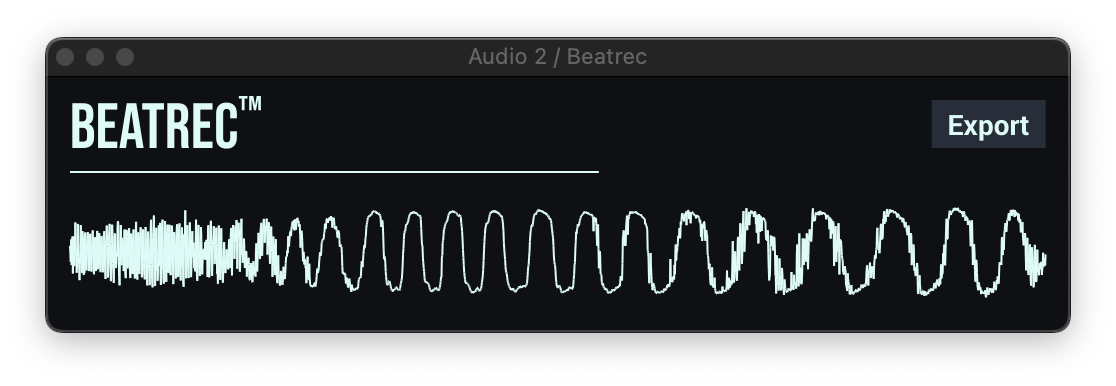
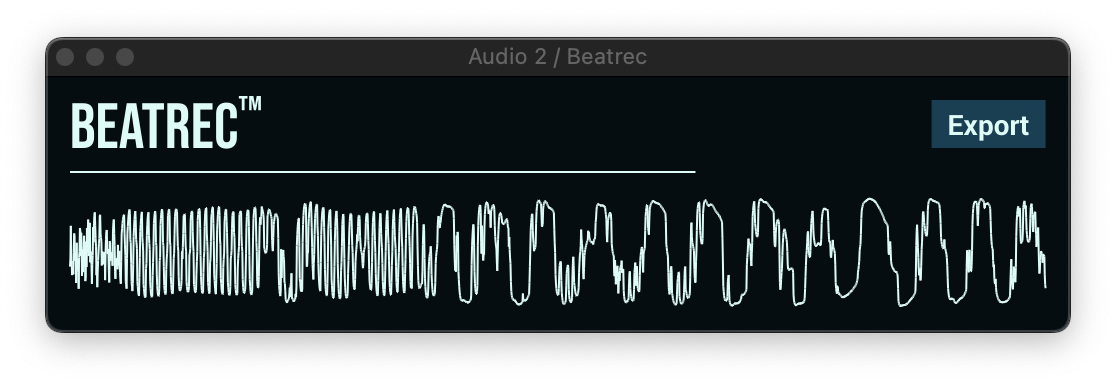
fix: update color scheme to match tphbrok.github.io theme

Changed region(s): [[0.0609, 0.4974, 0.9444, 0.8083], [0.8226, 0.2487, 0.9444, 0.4041], [0.5484, 0.4352, 0.6093, 0.4663]]

diff --git a/src/theme.css b/src/theme.css
@@ -1,9 +1,7 @@
 button {
-  background-color: rgb(40, 46, 57);
-  border: 1px solid rgba(79, 91, 117, 255);
+  background-color: rgb(26, 62, 82);
 }
 
 button:hover {
-  background-color: rgb(58, 67, 89);
-  border: 1px solid rgba(79, 91, 117, 100);
+  background-color: rgb(39, 93, 123);
 }

diff --git a/src/editor.rs b/src/editor.rs
@@ -111,7 +111,7 @@ fn render_ui(cx: &mut Context) {
         .row_between(Units::Pixels(SPACING))
         .space(Units::Pixels(SPACING));
     })
-    .background_color(Color::rgb(14, 16, 20));
+    .background_color(Color::rgb(5, 13, 17));
 }
 
 fn render_info(cx: &mut Context) {
@@ -129,7 +129,7 @@ fn render_info(cx: &mut Context) {
         .top(Units::Pixels(SPACING))
         .row_between(Units::Pixels(SPACING));
     })
-    .background_color(Color::rgb(28, 32, 40))
+    .background_color(Color::rgb(13, 31, 41))
     .height(Units::Pixels(HEIGHT - 5.0 * SPACING))
     .left(Units::Pixels(10.0 * SPACING))
     .on_mouse_up(|cx, _| cx.emit(EditorEvent::ClickInfo))
